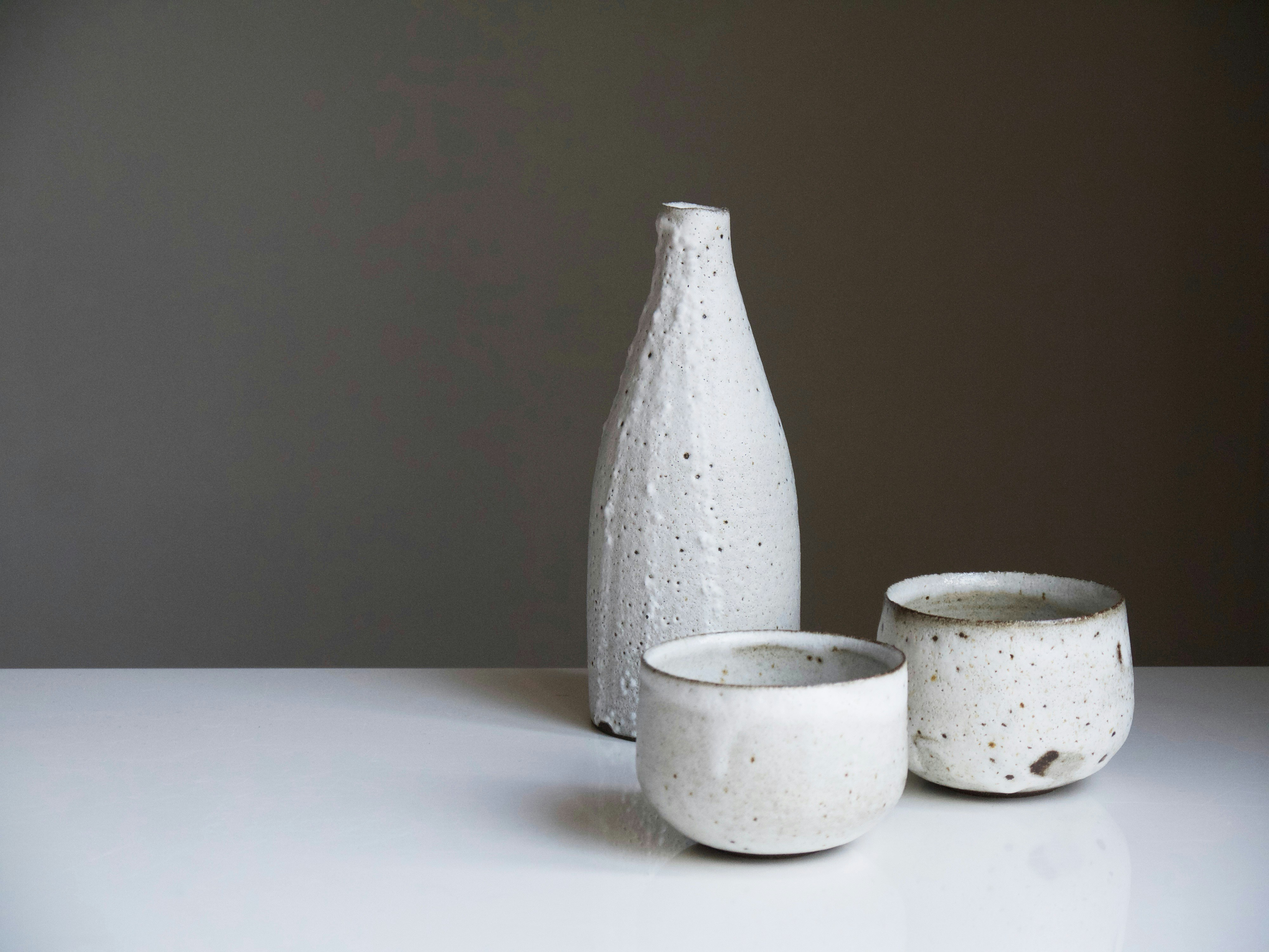
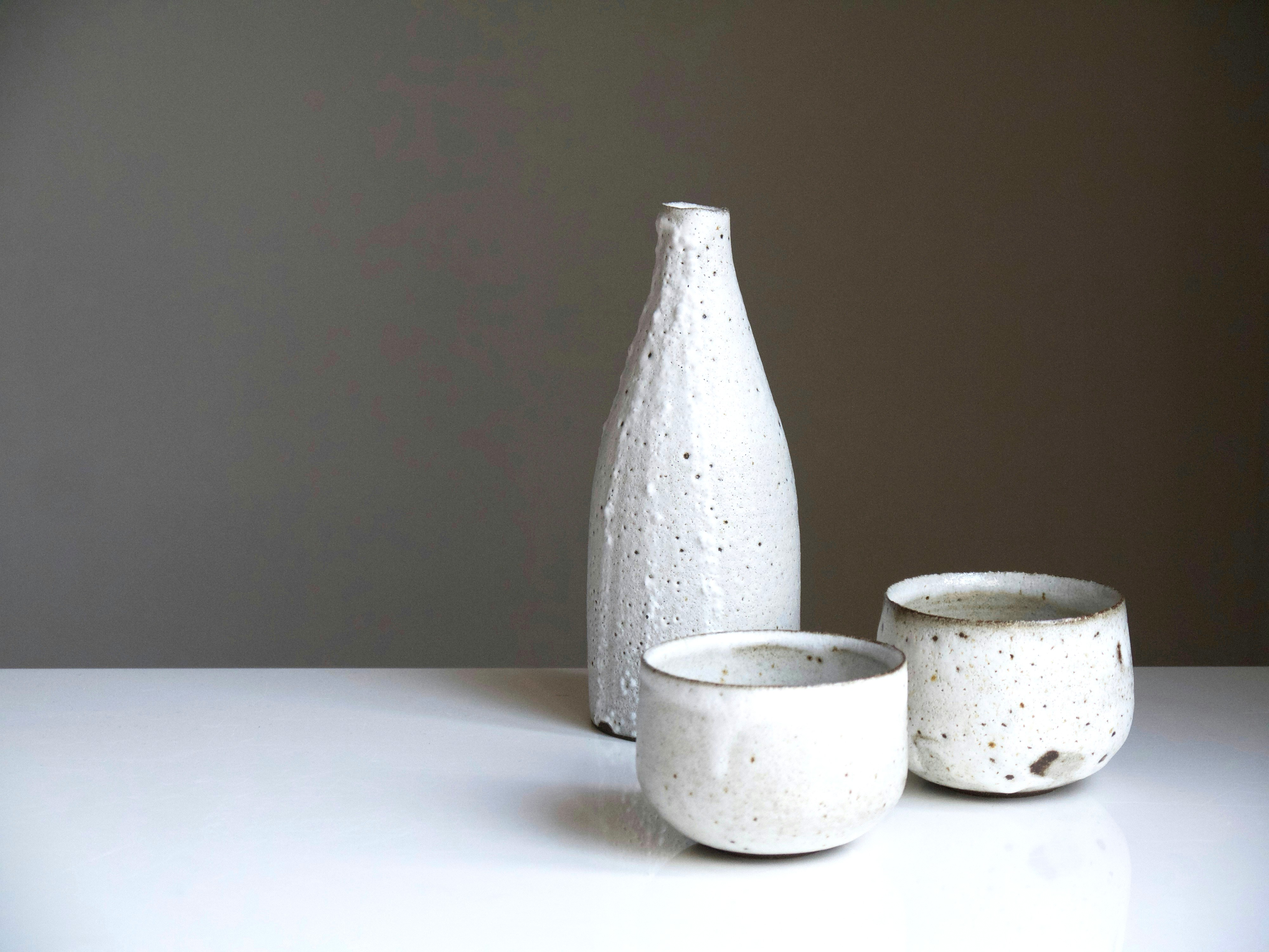
aaaa

Changed region(s): [[0.0, 0.217, 1.0, 1.0], [0.6875, 0.589, 0.7812, 0.651]]

diff --git a/metal.html b/metal.html
@@ -59,7 +59,7 @@
                 <p style="font-size: x-large; font-weight: bold;">Metal globe</p>
                 <p>This 12-inch black metal globe with stunning golden details and a classic brown wooden base is a decor essential for those who love timeless sophistication. Perfect for adding a touch of wanderlust and elegance to your space. </p>
                     <span id="sp1"> 
-                        <p style="font-weight: 600;font-size: x-large;">Price: ₹1636.6</p>
+                        <p style="font-weight: 600;font-size: x-large;">Price: 1636.6</p>
                         <a href="39.html" class="btn1">BuyNow -></a>
                     </span>
                 </div>

diff --git a/style.css b/style.css
@@ -4,7 +4,7 @@
     margin: 0;
     padding: 0;
     text-decoration: none;
-    font-family: 'Poppins', sans-serif;
+    font-family: '' , sans-serif;
 }
 html{
     font-size: 62.5%;
